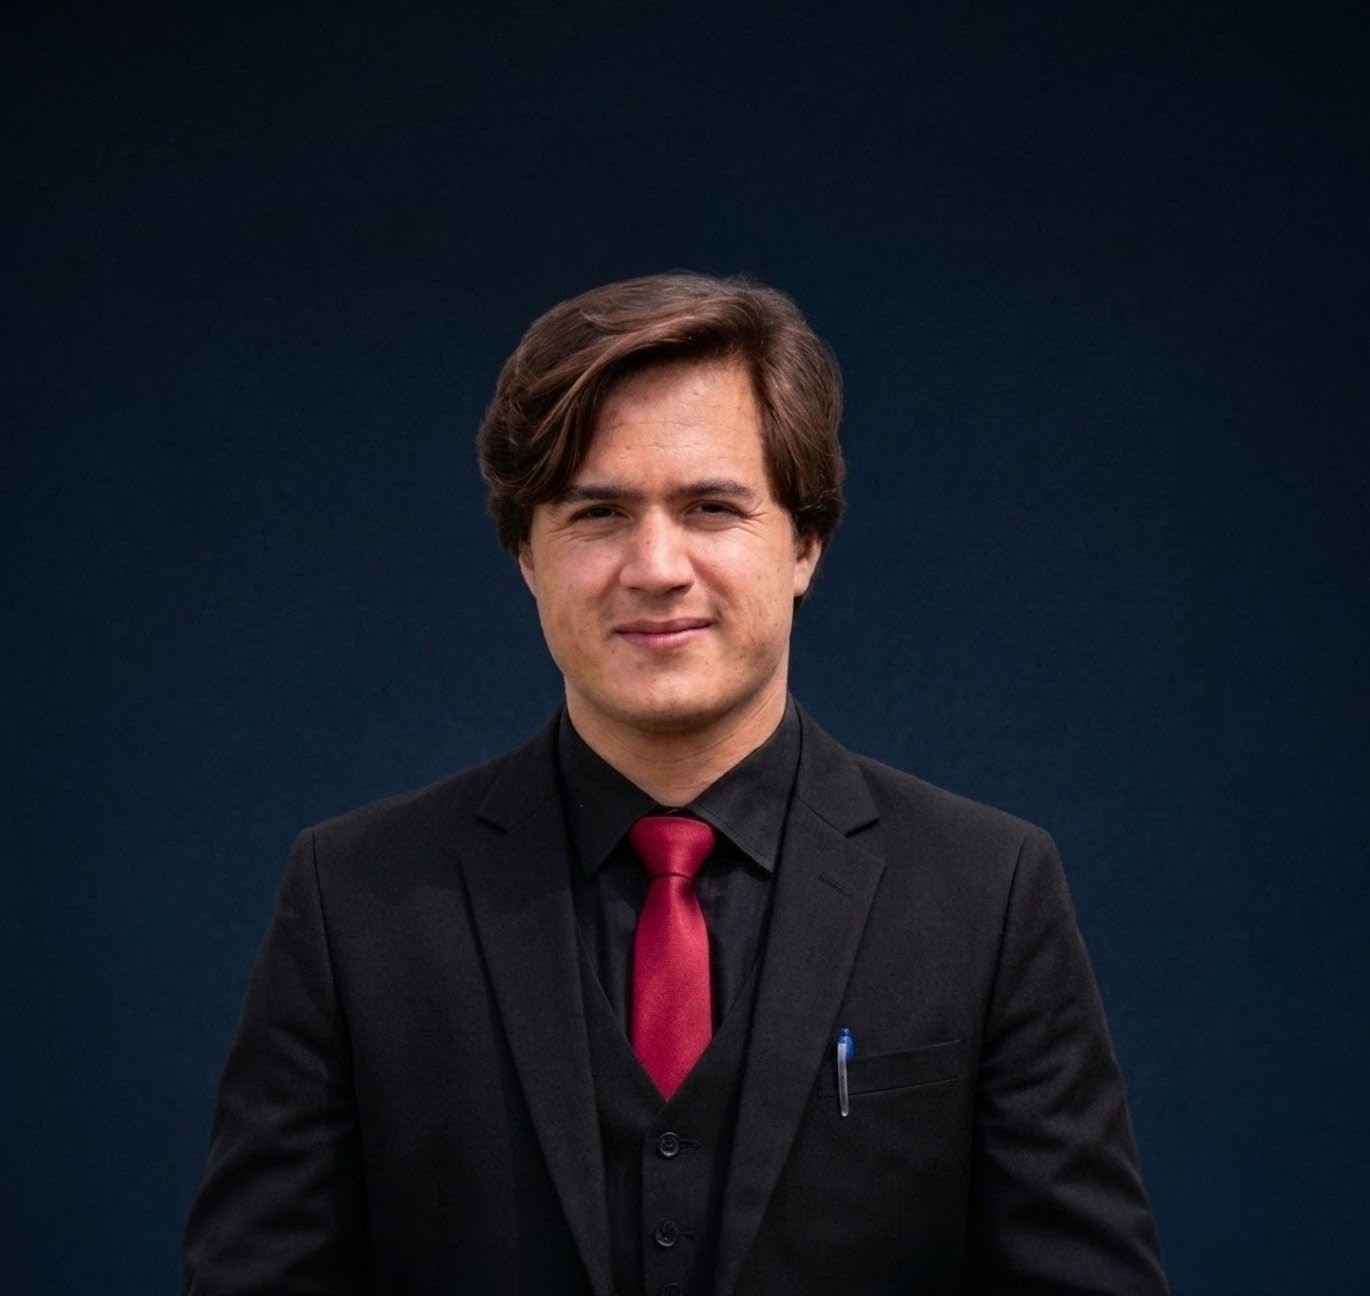
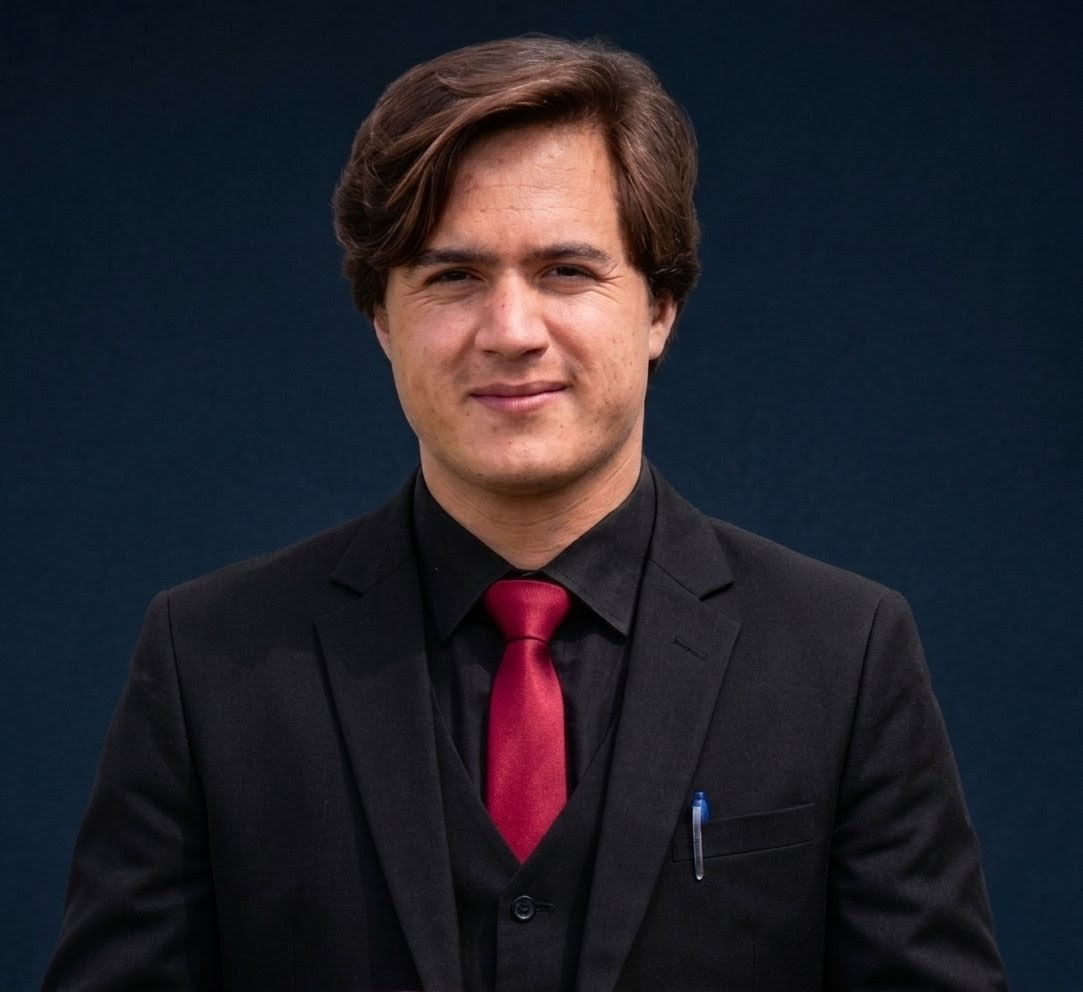
Updated about section

diff --git a/index.html b/index.html
@@ -58,22 +58,24 @@
         <div class="container">
             <h2>About Me</h2>
             <p>
-                I am Aftab Aziz from District Bajaur. I completed my SSC from FC Public School (2020)
-                and FSC in Computer Science from Government Post Graduate College Khar.
-                Currently, I am studying Software Engineering at Abdul Wali Khan University Mardan (8th Semester).
+                <p>
+               I am Aftab Aziz from District Bajaur. I completed my SSC from FC Public School in 2020 and FSC in Computer Science from Government Post Graduate College Khar. I recently graduated with a Bachelor’s degree in Software Engineering from Abdul Wali Khan University Mardan.
+               I have a strong interest in Cybersecurity, Ethical Hacking, and Web Security. During my academic journey, I worked on projects related to API security, vulnerability assessment, and secure web development. My Final Year Project, “CyberGuard,” focused on API Security and Threat Monitoring.
+               I am passionate about learning modern technologies and continuously improving my skills in cybersecurity, penetration testing, and software development.
+</p>
             </p>
         </div>
     </section>
 
     <!-- CV -->
     <section id="cv" class="cv">
-        <div class="container">
-            <div class="download-section">
-                <div class="download-buttons">
-                  <a href="Curriculum vitae.pdf" target="_blank" class="btn download-btn">📄 VIEW CV</a>
-                 </div>
+    <div class="container">
+        <div class="download-section">
+            <div class="download-buttons">
+                <a href="curriculum vitae.pdf" target="_blank" class="btn download-btn">📄 VIEW CV</a>
             </div>
         </div>
+    </div>
     </section>
 
     <!-- FYP Project -->
@@ -82,7 +84,8 @@
             <h2>FYP Project</h2>
             <div class="project-card">
                 <h3>CyberGuard</h3>
-                <p>CyberGuard is our Final Year Project, an advanced cybersecurity platform developed collaboratively by two team members. My partner on this project is Shakirullah, and together we contributed to the design, implementation, and deployment of the solution. <a href="https://cyberguard-k4bz.onrender.com" target="_blank" style="color: #0ea5e9; text-decoration: underline;">Click here</a> to visit the project.</p>
+                <p>CyberGuard is our Final Year Project, an advanced cybersecurity platform developed collaboratively by two team members. 
+                 My partner on this project is Shakirullah, and together we contributed to the design, implementation, and deployment of the solution. <a href="https://cyberguard-k4bz.onrender.com" target="_blank" style="color: #0ea5e9; text-decoration: underline;">Click here</a> to visit the project.</p>
             </div>
         </div>
     </section>